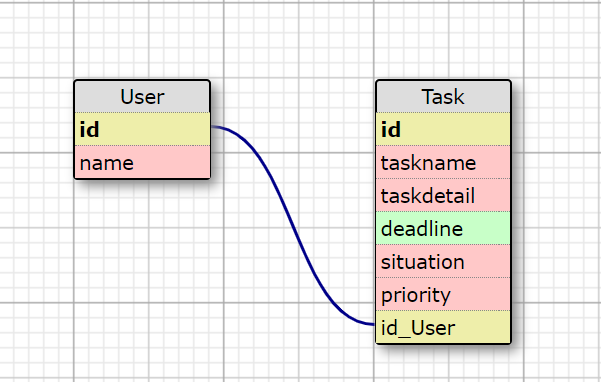
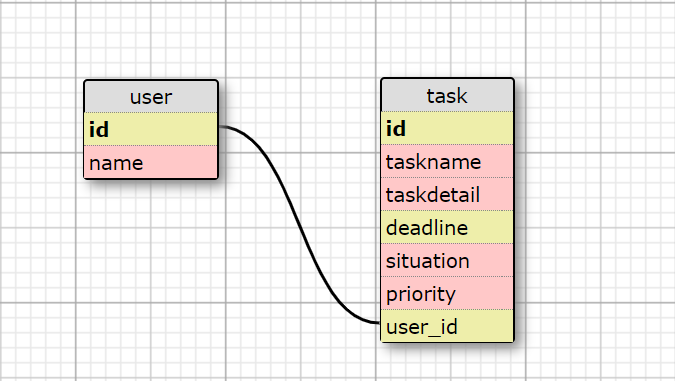
README.mdとER図のモデル名を小文字に修正

diff --git a/README.md b/README.md
@@ -1,13 +1,13 @@
 # checkmywork 構造
 
-#### Userモデル
+#### userモデル
 
 |カラム名 : データ型  |
 |---|
 |name : string  |
 
-#### Taskモデル
+#### taskモデル
 
 |カラム名 : データ型  |カラム名 : データ型  |カラム名 : データ型  |カラム名 : データ型  |カラム名 : データ型  |カラム名 : データ型  |
 |---|---|---|---|---|---|
-|taskname : string  |taskdetail : text  |deadline : datetime  |situation : string  |priority : string  |User : references  |
+|taskname : string  |taskdetail : text  |deadline : datetime  |situation : string  |priority : string  |user : references  |
